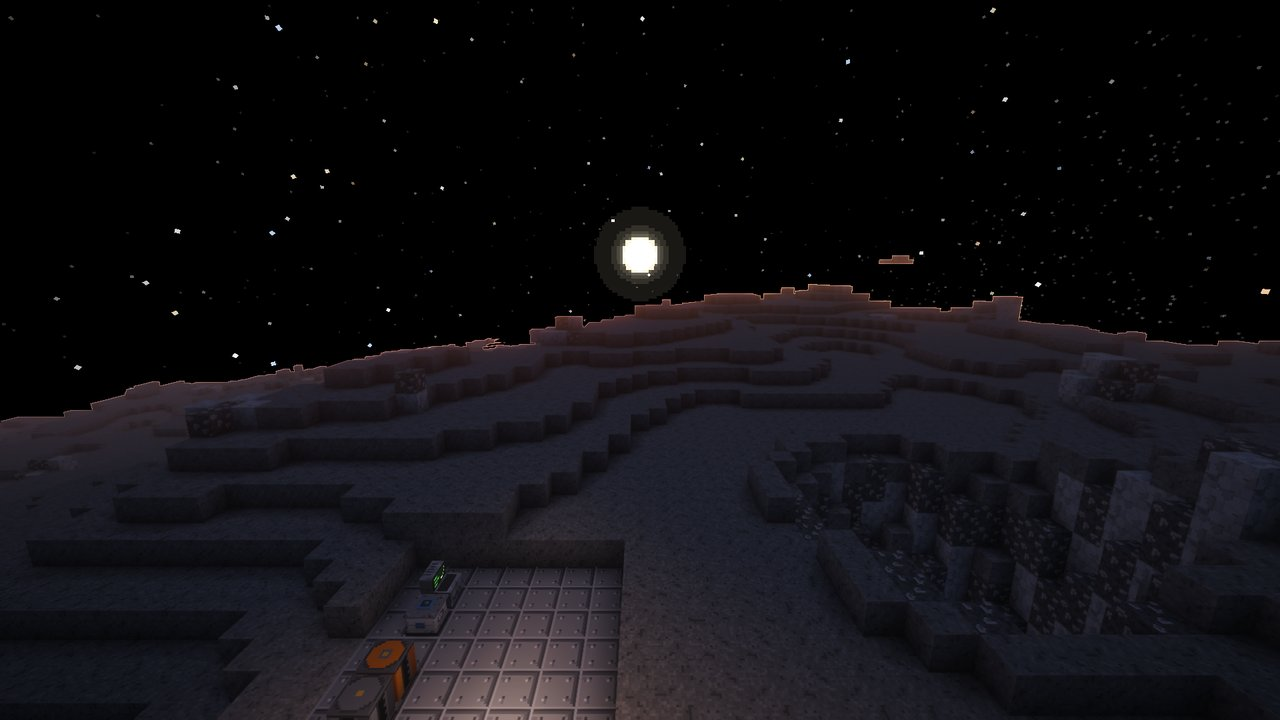
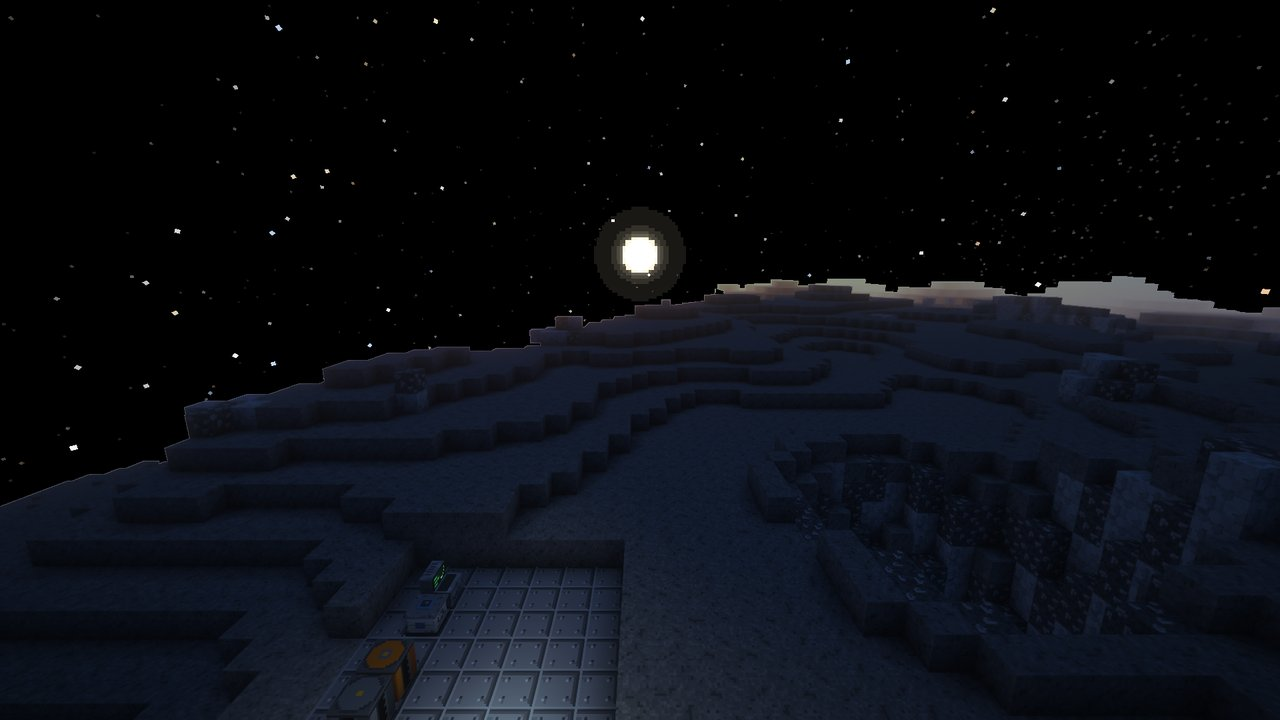
Compat: dawn white balance on airless worlds, reentry plasma shot, LOD-mod notes
- HazePass.dawnBalance: packs colour sunlight by the sun's height as if it
  passed through Earth's air (Moon and Mercury turned orange/pink at dawn).
  From vanilla's sun angle, which the packs read too, red and green are
  pulled back toward blue on scene pixels of airless worlds near the
  horizon; nothing at night or above ~40 degrees
- HazePass now runs in every own-sky world (tint/haze chosen per kind)
- compat scenario: shot 13 reentry plasma over the pack's frame (short view
  distance so it is ready during heating; boarding delayed a second after
  the dimension change)
- docs/COMPAT.md: Mercury dawn fixed, reentry shot, exact AUTO/ALWAYS/OFF
  behaviour with Distant Horizons / Voxy

diff --git a/src/main/java/com/pizzaparker07/spacebreaker/compat/client/HazePass.java b/src/main/java/com/pizzaparker07/spacebreaker/compat/client/HazePass.java
@@ -68,8 +68,7 @@ public final class HazePass {
     }
 
     private static boolean wanted(ClientLevel level) {
-        SpaceWorlds.Kind kind = SpaceSky.kind(level);
-        return (kind == SpaceWorlds.Kind.THICK_ATMOSPHERE || kind == SpaceWorlds.Kind.THIN_ATMOSPHERE) && ShaderSkyPass.active();
+        return SpaceSky.kind(level).ownSky() && ShaderSkyPass.active();
     }
 
     /** Called at AFTER_LEVEL, after the sky pass. */
@@ -85,8 +84,12 @@ public final class HazePass {
         }
         SpaceWorlds.Kind kind = SpaceSky.kind(level);
         float renderDistance = mc.gameRenderer.getRenderDistance();
-        boolean haze = fogEnd < renderDistance * CLOSE_FOG;
-        Vector3f tint = kind == SpaceWorlds.Kind.THICK_ATMOSPHERE ? daylightTint(level, partialTick) : new Vector3f(1F);
+        boolean haze = !kind.airless() && fogEnd < renderDistance * CLOSE_FOG;
+        Vector3f tint = switch (kind) {
+            case THICK_ATMOSPHERE -> daylightTint(level, partialTick);
+            case AIRLESS, ORBIT -> dawnBalance(level, partialTick);
+            default -> new Vector3f(1F);
+        };
         if (!haze && tint.x > 0.99F && tint.y > 0.99F && tint.z > 0.99F) {
             return;
         }
@@ -109,6 +112,28 @@ public final class HazePass {
         level.effects().adjustLightmapColors(level, partialTick, level.getSkyDarken(partialTick), 1F, 1F, 0, 15, colors);
         colors.set(clamp(colors.x), clamp(colors.y), clamp(colors.z));
         return colors;
+    }
+
+    /**
+     * White balance for airless worlds at low sun. Packs colour sunlight by the sun's height as if it shone through
+     * Earth's air (orange at dawn and dusk, also on the Moon and Mercury). Packs read the sun height from vanilla's
+     * sun angle, so the same height tells us how much orange they added; red and green are pulled back toward the
+     * blue channel on scene pixels (a multiply can only darken: a grazing sun is dim anyway). Night is untouched.
+     */
+    static Vector3f dawnBalance(ClientLevel level, float partialTick) {
+        float h = net.minecraft.util.Mth.cos(level.getTimeOfDay(partialTick) * net.minecraft.util.Mth.TWO_PI);
+        float low = 1F - smooth((h - 0.05F) / 0.60F);
+        float up = smooth((h + 0.10F) / 0.12F);
+        float w = low * up;
+        return new Vector3f(1F - DAWN_RED * w, 1F - DAWN_GREEN * w, 1F);
+    }
+
+    private static final float DAWN_RED = 0.42F;
+    private static final float DAWN_GREEN = 0.18F;
+
+    private static float smooth(float t) {
+        t = Math.max(0F, Math.min(1F, t));
+        return t * t * (3F - 2F * t);
     }
 
     private static float clamp(float v) {

diff --git a/src/testmod/java/com/pizzaparker07/spacebreaker/testmod/showcase/CompatScenario.java b/src/testmod/java/com/pizzaparker07/spacebreaker/testmod/showcase/CompatScenario.java
@@ -205,6 +205,26 @@ final class CompatScenario implements ShowcaseScenario {
                 go(MarsModule.MARS, 0.5, my + 12, 0.5, 90F, 4F, 0.49, null), null));
         s.add(new ShowcaseDriver.Shot("12_mars_night", 0, 0, 0, 0, 0F, 0F, true, fp, 140,
                 go(MarsModule.MARS, 0.5, my + 12, 0.5, 30F, -20F, 0.75, null), null));
+        // reentry plasma (GUI layer) over the pack's frame; a short view distance so the frame is ready while the
+        // capsule is still in the heating phase (ticks keep running: ridden entities are never frozen)
+        s.add(new ShowcaseDriver.Shot("13_reentry_plasma", 6000, 0, 0, 0, 0F, 0F, false, fp, 50, CompatScenario::reentry,
+                () -> Minecraft.getInstance().options.renderDistance().set(4)));
         return s;
+    }
+
+    private static void reentry(ServerPlayer p) {
+        // the driver first brings the player back to the scenario's dimension, so change worlds now and board the
+        // capsule a second later (riding across a dimension change in the same tick leaves the client without a view)
+        ServerLevel earth = p.server.overworld();
+        p.teleportTo(earth, -20.5, 701, 10.5, 0F, 60F);
+        var server = p.server;
+        int now = server.getTickCount();
+        server.tell(new net.minecraft.server.TickTask(now + 20, () -> {
+            RocketEntity capsule = RocketEntity.create(earth, RocketryModule.MOON_ROCKET, new net.minecraft.world.phys.Vec3(-20.5, 700, 10.5), 0F);
+            capsule.fillCompletely();
+            earth.addFreshEntity(capsule);
+            capsule.stageScene(com.pizzaparker07.spacebreaker.content.rocketry.entity.FlightState.REENTRY, 0, 3, false);
+            p.startRiding(capsule, true);
+        }));
     }
 }

diff --git a/docs/COMPAT.md b/docs/COMPAT.md
@@ -17,7 +17,7 @@ Per world with Complementary (vanilla reference shots live in each area's screen
 |---|---|---|
 | Moon | airless | black sky, stars, Earth with phases, grey regolith, sun shadows |
 | Earth orbit / Moon orbit | orbit | planet below, Sun, stars; station plates neutral grey |
-| Mercury | airless | huge Sun disc, grey crust at noon (`iris_mercury_*`); dawn light is orange (see limitations) |
+| Mercury | airless | huge Sun disc, grey crust at noon and at sunrise (`iris_mercury_*`) |
 | Mars | thin | own butterscotch sky, blue sunset; dust storm haze (`iris_mars_11_dust_storm` vs `vanilla_mars_11_dust_storm`), a little brighter than vanilla |
 | Venus | thick | dark ground, dense orange haze, whiteout in the clouds, cloud sea above (`venus_vanilla_bug_fixed.jpg`: vanilla / before / after) |
 | Titan and later thick worlds | thick | covered by the same generic haze pass (fog + light map of the world itself), no code needed |
@@ -25,9 +25,8 @@ Per world with Complementary (vanilla reference shots live in each area's screen
 
 Screen effects and HUDs (all in the GUI layer, drawn over the pack's final frame) were checked under Complementary:
 orbit HUD (`iris_rocketry_12_orbit_hud`), suit HUD on the Moon (`iris_suit_moon_03_hud_vacuum`), launch
-(`iris_rocketry_07_ignition`), Mars dust tint. The reentry plasma overlay is the same GUI code path; in the shader
-run the frame was taken after the heating phase had ended (rendering is slower, the rocket timer had moved on), so it
-is not in the screenshots.
+(`iris_rocketry_07_ignition`), Mars dust tint. The reentry plasma overlay (`iris_13_reentry_plasma`, compat shot 13 with
+a short view distance so the frame is ready during the heating phase) is drawn over the pack's frame as well.
 
 Sodium only: the compat scenario shots match vanilla; chunk meshing of freshly generated Moon and Mars terrain at
 12 chunks finished within the same minimum shot wait as vanilla (no stalls or timeouts). No deeper profiling done.
@@ -61,6 +60,7 @@ follow the Sun, which only the Overworld programs give. So we keep the Overworld
 | `SpaceWorlds` | classifies every dimension from its celestial body JSON: `ORBIT`, `AIRLESS` (vacuum), `THIN_ATMOSPHERE` (< 20 kPa, Mars), `THICK_ATMOSPHERE` (Venus, Titan), `VANILLA` (Overworld, Nether, End, unknown). New worlds are covered by adding `dimension` / `orbit_dimension` to their body JSON — a GameTest fails if a `spacebreaker:` dimension has no body. |
 | `client/ShaderSkyPass` | **sky replacement.** Iris renders into Minecraft's own depth buffer, which still holds the scene depth after the pack's final pass. NeoForge fires `RenderLevelStageEvent.Stage.AFTER_LEVEL` in `GameRenderer` right after `LevelRenderer.renderLevel` returns — after Iris's composite/final passes, before the depth clear for the hand. There our normal sky (`level.effects().renderSky`, unchanged vanilla code) is drawn into an off-screen target and copied onto the frame with `glDepthRange(1,1)` + `GL_LEQUAL`, i.e. only where the depth is still the cleared far value: the sky. Terrain, entities and the hand keep the pack's shading. Works with any pack, no pack-specific code. |
 | `client/HazePass` | **thick and dusty air.** Packs ignore vanilla fog and the light map, so Venus was a bright beige desert. At `AFTER_SOLID_BLOCKS` the terrain fog the world set up this frame is captured (start, end, shape, colour — after every mod's `ViewportEvent` fog handlers); the world's own `adjustLightmapColors` gives its full-daylight colour. After the pack's final pass (and after the sky pass) the depth buffer is copied (`glCopyTexSubImage2D`, avoids a feedback loop and converts formats) and the core shader `spacebreaker:compat_haze` applies `frame * tint * (1 - f) + fog * f` to scene pixels only (two blended draws). Thick atmospheres get haze + tint; thin ones (Mars) get haze only while their fog is closer than 80 % of the render distance (dust storms). Generic: Titan or any new world uses its own fog and light map. |
+| dawn white balance (`HazePass.dawnBalance`) | packs colour sunlight by the sun's height as if it shone through Earth's air, so the Moon and Mercury turned orange/pink at sunrise and sunset. Packs take the height from vanilla's sun angle; from the same angle the pass pulls red and green back toward blue on scene pixels of airless worlds (up to −42 % / −18 % at the horizon, nothing above ~40° or at night). A multiply can only darken, which suits a grazing sun. Checked with Complementary on the Moon and Mercury. |
 | `mixin/iris/PackCloudsMixin` | `DimensionSpecialEffects.getCloudHeight` → 25000 in space worlds while a pack is active. Iris passes it as `cloudHeight`; pack clouds move beyond their draw distance (no clouds in front of distant terrain, no cloud shadows). Our sky effects draw clouds themselves, vanilla never reads it there. |
 | `mixin/iris/PackAmbientMixin` | `ClientLevel.getSkyColor` → a cool fill in airless worlds while a pack is active (Iris passes it as `skyColor`). Packs use it differently: Complementary adds `pow(skyColor, 0.75)` to a warm, atmosphere-filtered sun and needs (0.20, 0.30, 0.72) to bring grey regolith back to neutral; MakeUp mixes 60 % of it into an already neutral ambient, so other packs get a moderate (0.20, 0.27, 0.55); BSL ignores it. The pack family is read from Iris's current pack name (internal method, by reflection; unknown → moderate value). Mars keeps its biome sky colour (butterscotch fill is right there). |
 | `mixin/ClientWeatherMixin` | client-side `getRainLevel` / `getThunderLevel` = 0 in space worlds (always, with or without Iris). Server-side weather is untouched. |
@@ -85,15 +85,23 @@ does it anyway; `OFF` leaves the pack alone.
 - **Haze strength:** the pack's own (brighter) lighting sits under our haze, so Mars storms read a little lighter
   than vanilla at mid distance; Venus matches closely. Translucent blocks and particles in front of terrain are hazed
   by the depth of what is behind them.
-- **Low sun on airless worlds (Moon, Mercury):** packs tint sunrise/sunset light orange (it comes from their Overworld atmosphere
-  model, keyed to the sun angle). Our sky stays black, but the ground looks like an Earth dawn for the first and
-  last ~10 % of the lunar day.
+- **Low sun on airless worlds:** the dawn white balance removes most of the packs' orange; the result is a little
+  cool and darker than vanilla right at the horizon. Packs that tint dawn much more or less than Complementary are
+  only partly corrected.
 - **Sky seen through glass or water** is the pack's (translucent geometry writes depth before the sky pass). Looking
   out of a glass window into space shows the pack's sky colour behind the glass.
 - **Pack bloom/lens flare** around the pack's own sun can bleed a little onto terrain silhouettes; the Sun disc
   itself is ours.
-- **Distant Horizons / Voxy:** their far terrain is not in Minecraft's depth buffer, so `AUTO` disables the sky
-  replacement when one is installed (the pack's sky is shown). `ALWAYS` forces it and hides LOD terrain.
+- **Distant Horizons / Voxy:** their far terrain lives in its own depth buffer (`dhDepthTex` / Voxy's), not in
+  Minecraft's. Both of our passes decide "sky or scene" from Minecraft's depth, so LOD terrain would count as sky.
+  - `spaceSky = AUTO` (default): when `distanthorizons` or `voxy` is installed, the sky replacement, the haze/light
+    pass and the dawn balance are all off in every world; the pack's own (Overworld) sky and lighting are shown,
+    as before this layer existed. The pack-cloud, pack-ambient and weather fixes stay on.
+  - `ALWAYS`: everything on; LOD terrain beyond the normal render distance is painted over by our sky.
+  - `OFF`: like AUTO with LOD mods, in every setup.
+  - Not tested in a client here (no LOD mod was installed); the behaviour follows from `Compat.lodModInstalled()`
+    in `ShaderSkyPass.active()`, which `HazePass` also checks. Reading the LOD depth texture would allow full support
+    later.
 - **Sun direction vs. shadows:** packs cast shadows from vanilla's sun path (plus their own `sunPathRotation`); our
   drawn Sun also tilts with the observer's latitude. Near the poles the two differ by up to the latitude.
 - Shader packs that use a different dimension mapping (custom `dimension.properties` entries for `spacebreaker:*`)
